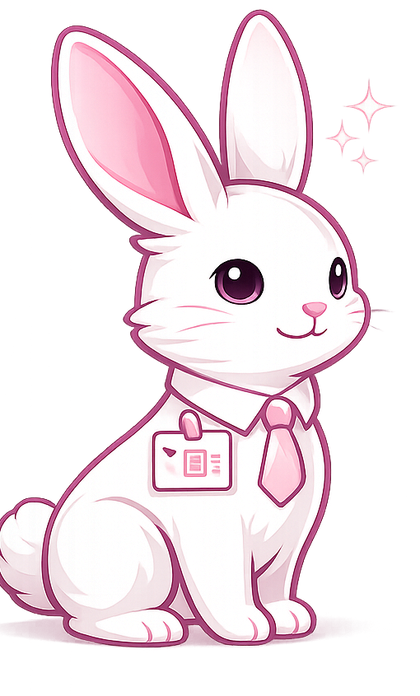
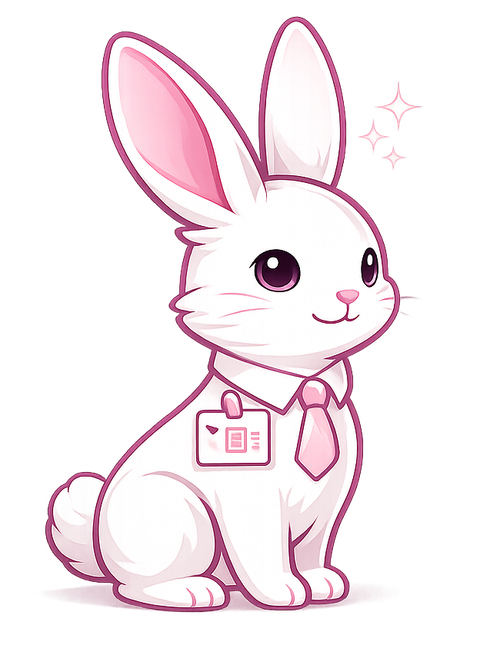
maskot kirpmasi duzeltildi

diff --git a/src/styles.css b/src/styles.css
@@ -81,8 +81,6 @@ textarea {
   pointer-events: none;
   user-select: none;
   filter: drop-shadow(0 14px 24px rgba(190, 50, 110, 0.1));
-  -webkit-mask-image: radial-gradient(circle at center, #000 58%, rgba(0, 0, 0, 0.72) 72%, transparent 100%);
-  mask-image: radial-gradient(circle at center, #000 58%, rgba(0, 0, 0, 0.72) 72%, transparent 100%);
 }
 
 .brand-side-mascot-left {
